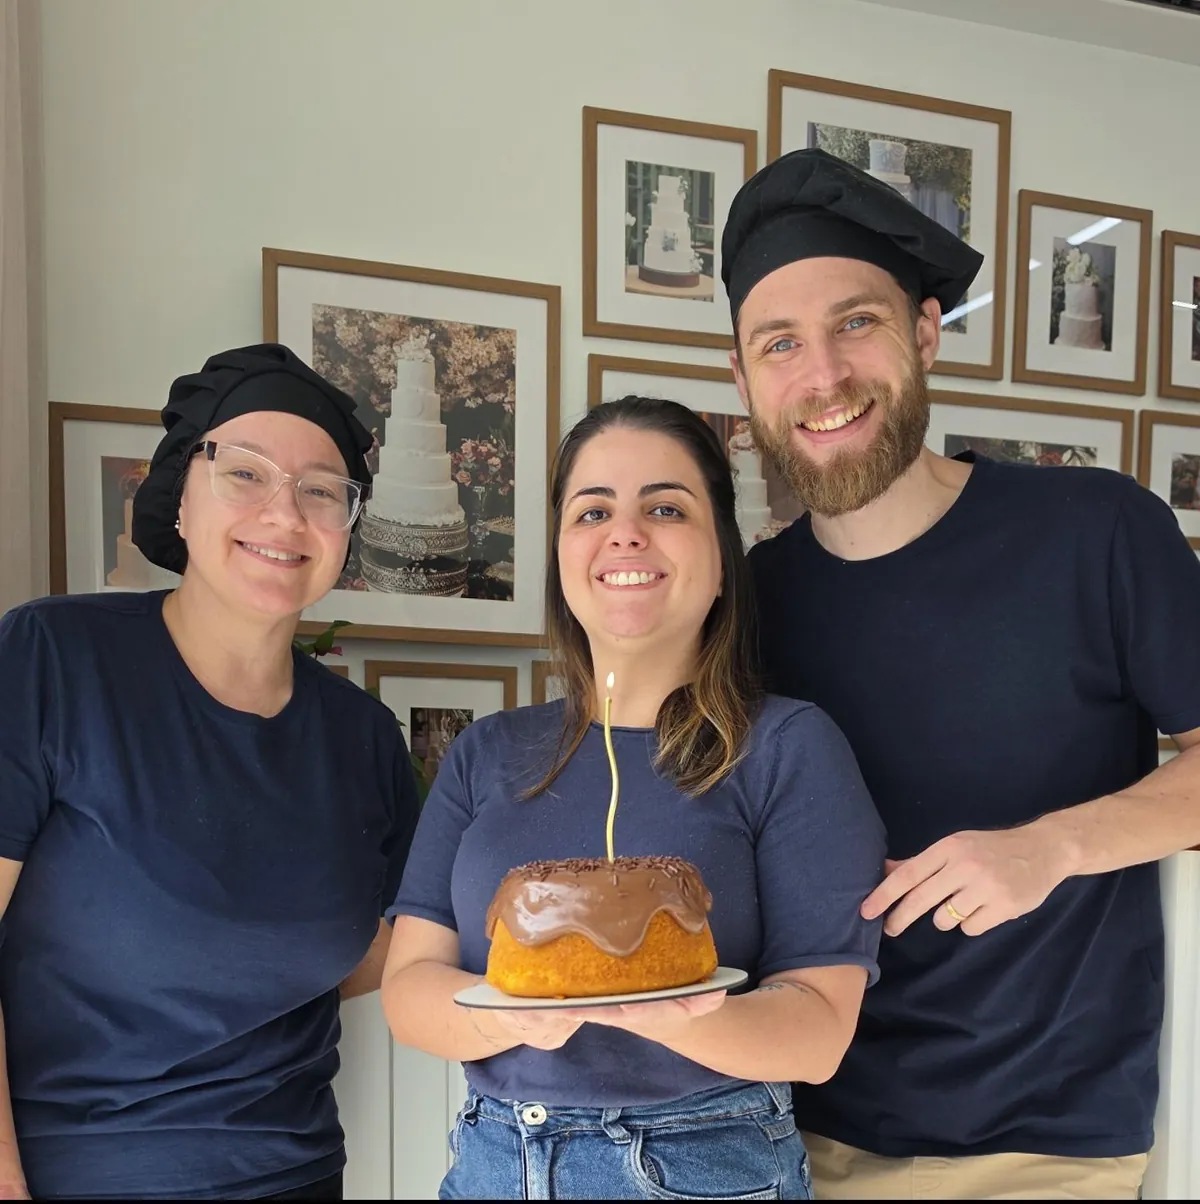
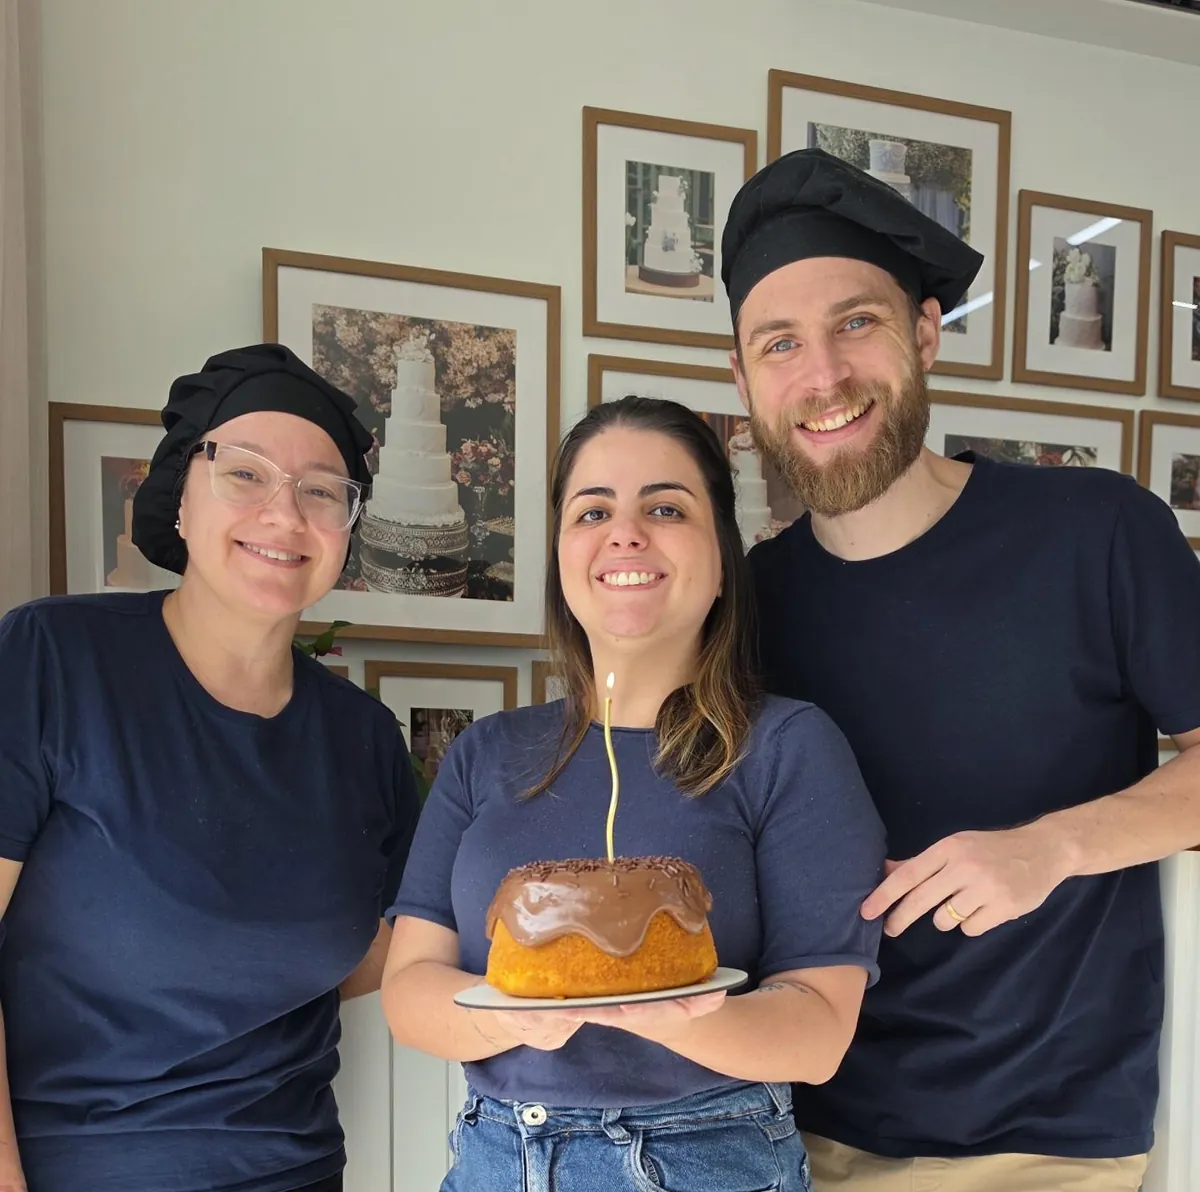
Previews: 41 ativos

diff --git a/santa-dallah-joinville-sc/index.html b/santa-dallah-joinville-sc/index.html
@@ -112,7 +112,7 @@
 
 <section class="atelie" aria-labelledby="a-t">
   <div class="wrap">
-    <figure><img src="img/equipe-800.webp" srcset="img/equipe-480.webp 480w, img/equipe-800.webp 800w, img/equipe-1200.webp 1200w" sizes="(max-width: 900px) 92vw, 46vw" width="1200" height="1204" alt="Três pessoas de camiseta azul-marinho, duas de touca, em frente à parede de fotos de bolos do ateliê" loading="lazy" decoding="async"></figure>
+    <figure><img src="img/equipe-800.webp" srcset="img/equipe-480.webp 480w, img/equipe-800.webp 800w, img/equipe-1200.webp 1200w" sizes="(max-width: 900px) 92vw, 46vw" width="1200" height="1192" alt="Três pessoas de camiseta azul-marinho, duas de touca, em frente à parede de fotos de bolos do ateliê" loading="lazy" decoding="async"></figure>
     <div>
       <h2 id="a-t">O ateliê</h2>
       <p class="atelie-num">7,1 mil seguidores</p>

diff --git a/santa-dallah-joinville-sc/encomendar.html b/santa-dallah-joinville-sc/encomendar.html
@@ -47,7 +47,7 @@
 
 <section class="atelie" aria-labelledby="a-t">
   <div class="wrap">
-    <figure><img src="img/frutas-perto-480.webp" srcset="img/frutas-perto-480.webp 480w, img/frutas-perto-840.webp 840w" sizes="(max-width: 900px) 92vw, 46vw" width="840" height="760" alt="De perto: morango, kiwi, uva e laranjinha sobre uma torta" loading="lazy" decoding="async"></figure>
+    <figure><img src="img/rosas-bancada-800.webp" srcset="img/rosas-bancada-480.webp 480w, img/rosas-bancada-800.webp 800w, img/rosas-bancada-1200.webp 1200w" sizes="(max-width: 900px) 92vw, 46vw" width="1200" height="1250" alt="Bolo branco com rosas vermelhas de caule longo sobre uma bancada de madeira" loading="lazy" decoding="async"></figure>
     <div>
       <h2 id="a-t">Delivery e catálogo</h2>
       <p>Tem delivery: pergunte pelo WhatsApp como funciona para o seu endereço.</p>

diff --git a/santa-dallah-joinville-sc/estilo.css b/santa-dallah-joinville-sc/estilo.css
@@ -51,6 +51,7 @@ a { color: inherit; }
 .btn-anil:hover { background: var(--anil-3); }
 .btn-peq { min-height: 44px; padding: 8px 18px; font-size: 1rem; }
 .link { color: var(--framboesa); font-weight: 500; text-decoration: underline; text-decoration-thickness: 2px; text-underline-offset: 5px; }
+.link { display: inline-flex; align-items: center; min-height: 44px; }
 .link:hover { color: var(--anil); }
 
 /* aviso e cabeçalho */
